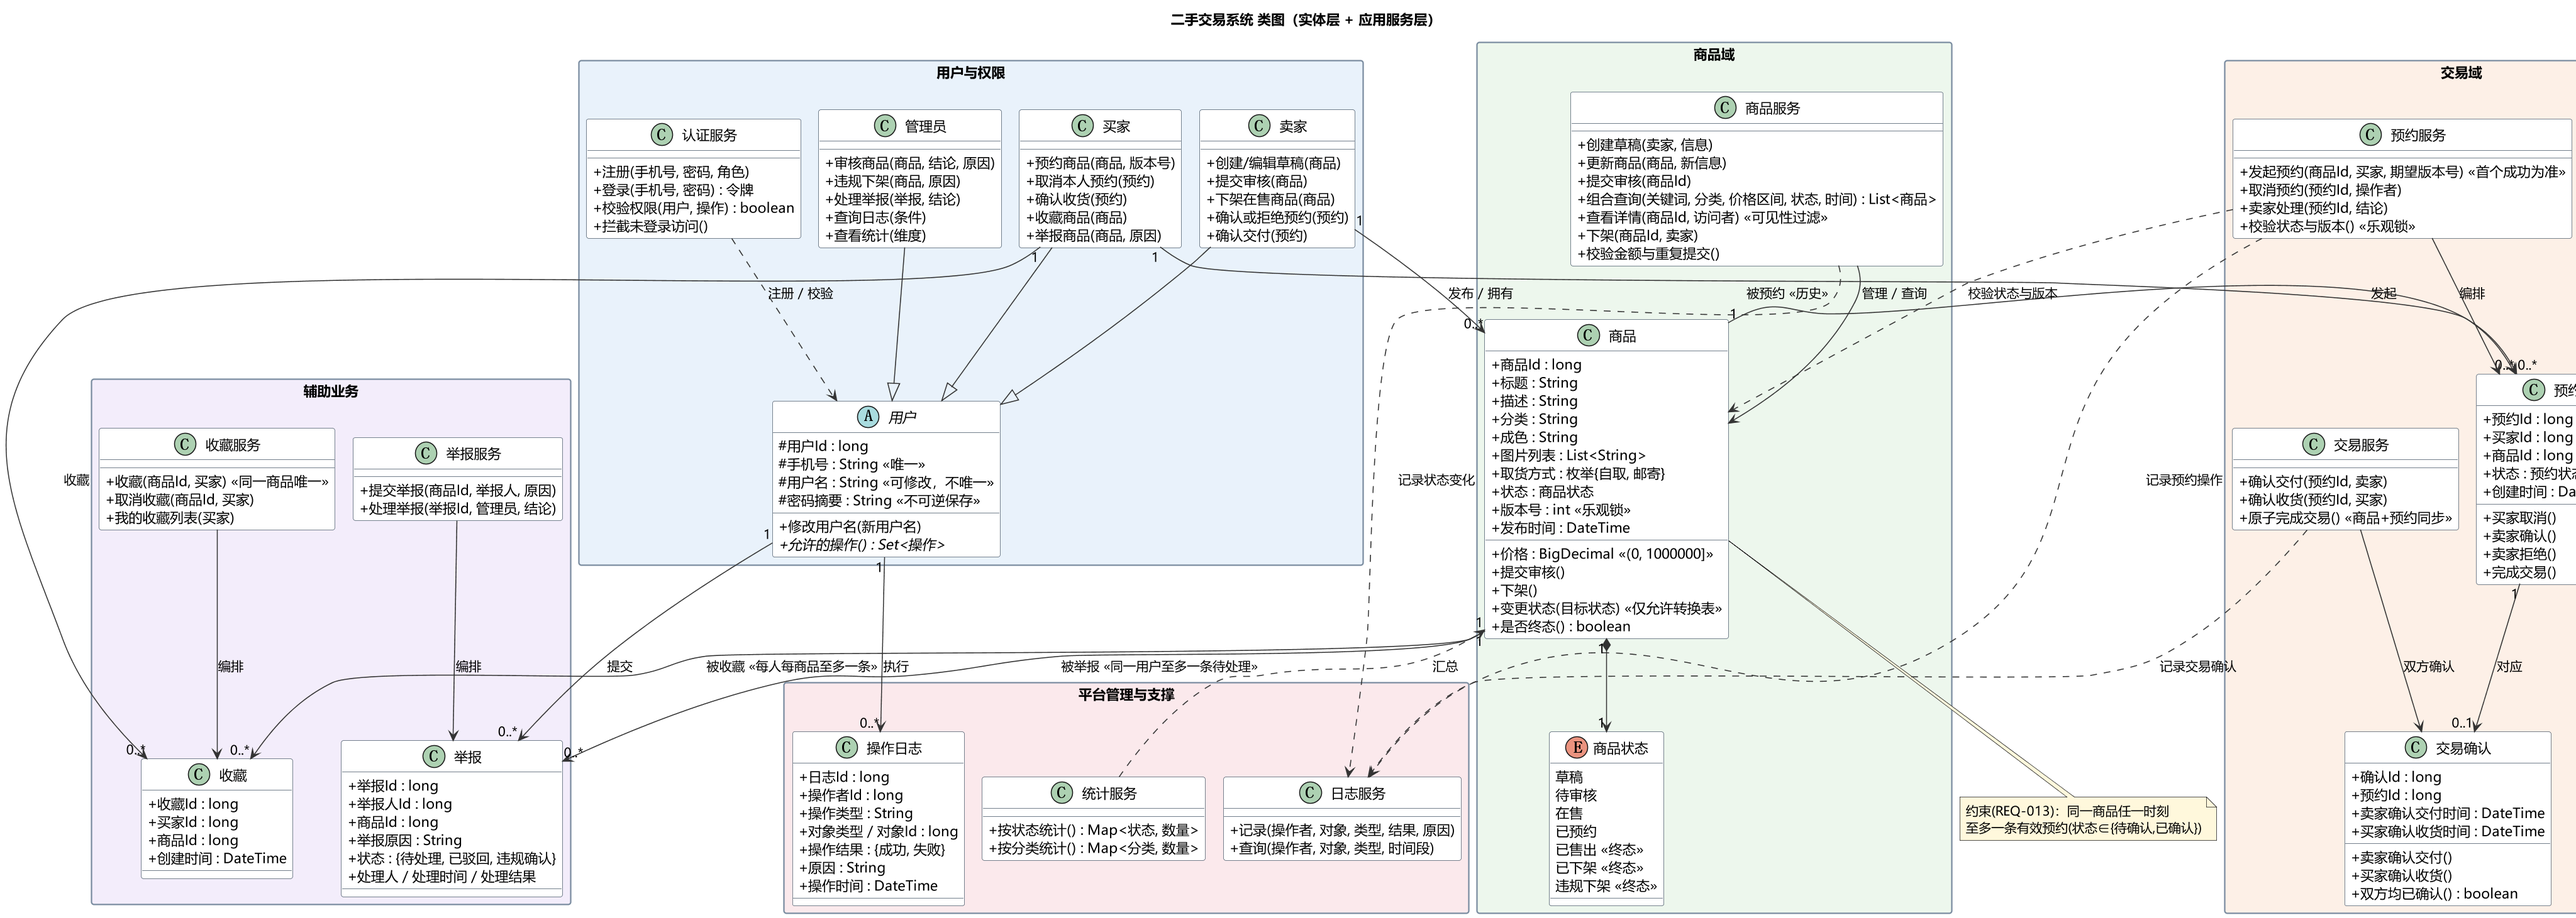
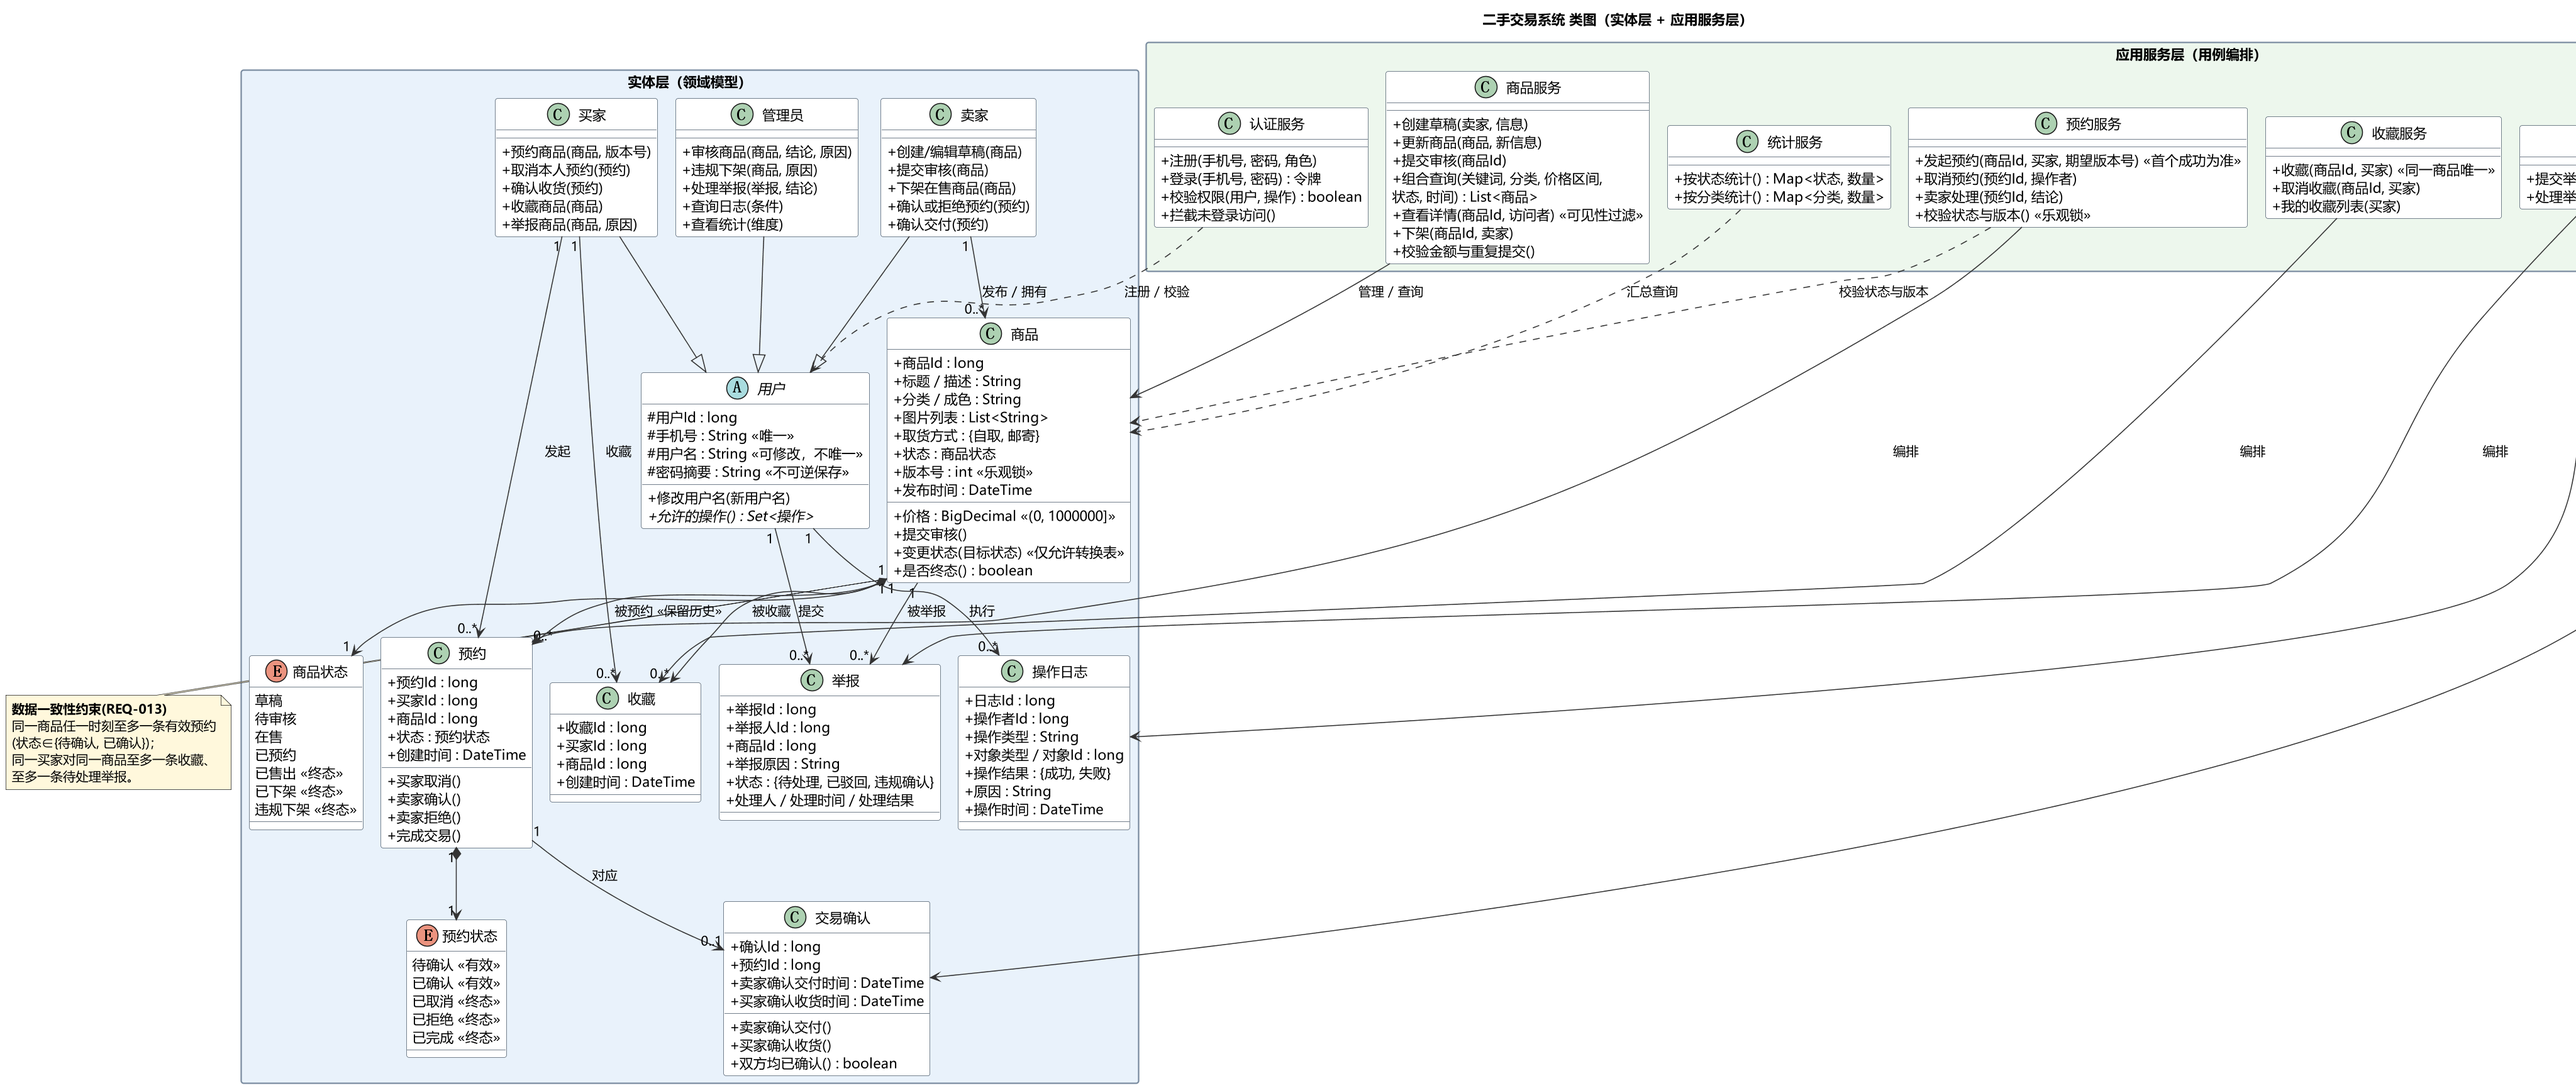
lab2 第二次人工修改：重构类图布局，五个业务包改为实体层+应用服务层
[人工修改·第二次] 类别：UML 类图布局优化

问题（渲染后人工目检发现）：
- 初版五个业务包的跨包依赖导致连线大量交叉，可读性差；服务与实体混排

重构：
- 重组为「实体层（领域模型）+ 应用服务层（用例编排）」两个包
- 服务只与主实体相连，跨层依赖仅保留三条关键线，日志横切改注释
- 补 REQ-013/REQ-014 约束注释

效果：重渲染后交叉明显减少（4096x1730）；类、属性、多重性完全不变

diff --git a/lab2/修改记录/r3-第二次人工修改.md b/lab2/修改记录/r3-第二次人工修改.md
@@ -1,0 +1,20 @@
+# 第二次人工修改（2026-10-24 17:52）
+
+**类型**：UML 类图布局优化
+
+## 问题（渲染后人工目检发现）
+
+初版类图按「用户与权限/商品域/交易域/辅助业务/平台管理与支撑」五个业务包组织，
+跨包依赖（认证服务→用户、预约服务→商品、各服务→日志服务）导致连线大量交叉；
+服务与实体混排，分层职责在图面上不清晰。
+
+## 修改
+
+- 重组为「实体层（领域模型）+ 应用服务层（用例编排）」两个包；
+- 服务只与自己的主实体相连，跨层依赖仅保留三条关键线（预约服务→商品「校验状态与版本」等）；
+- 日志横切关系改用注释表达并说明省略原因；
+- 补 REQ-013 数据一致性、REQ-014 横切关注两条约束注释。
+
+## 结果
+
+类、属性、多重性与初版完全一致（仅组织方式变化）；重渲染后交叉明显减少（4096x1730），分层一目了然。

diff --git a/lab2/README.md b/lab2/README.md
@@ -32,3 +32,4 @@ lab2/
 |---|---|---|
 | r1 | AI 生成 | 初版：六种 UML 图、八组 UI、24 页报告 |
 | 第一次人工修改 | UML 修复 | 修复状态图组合状态连线渲染报错（Error line 81）、用例图 <<include>> 笔误 |
+| 第二次人工修改 | UML 优化 | 类图重构：五个业务包改为「实体层+应用服务层」两层，消除跨包连线交叉 |
